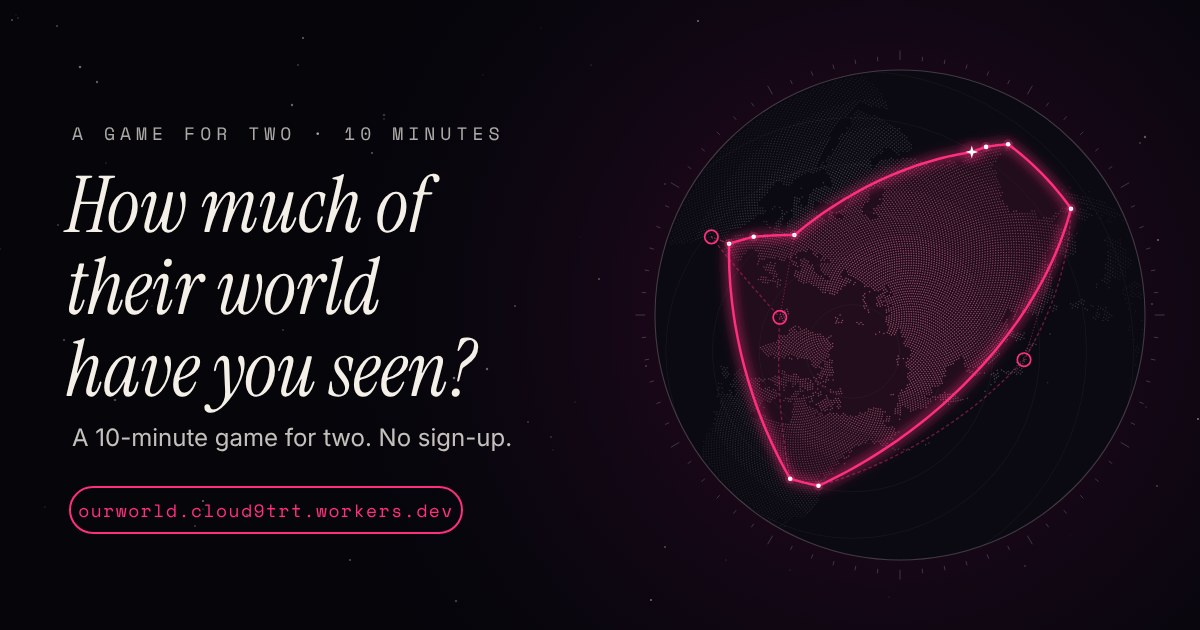
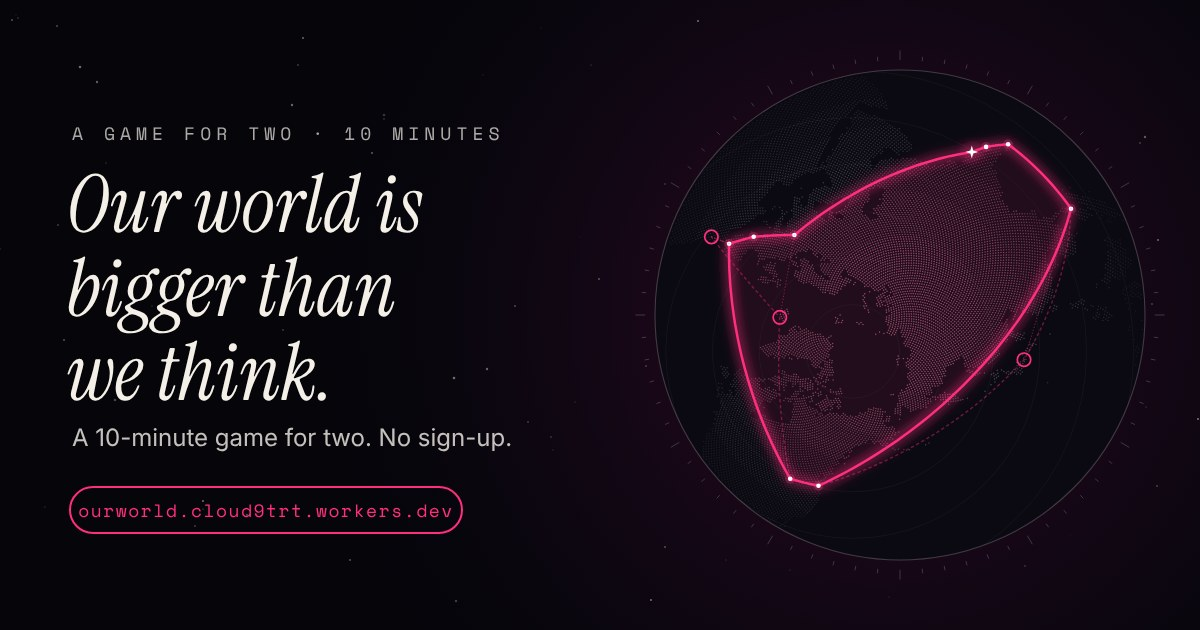
Speclet v5: "Our world is bigger than we think."
- Landing: new headline (sized to wrap to two lines at 390 px), shorter body, the small
  line removed, "Got a code? Scan it.", more room around the globe
- Invite share text: "Our world is bigger than we think. Let's find out." and the link
- Link preview title and description; preview image redrawn
- Share landing headline

Claude-Session: https://claude.ai/code/session_01LMzzb8cEo5p14Pkx3bb9GB

Changed region(s): [[0.0308, 0.2714, 0.4008, 0.6635]]

diff --git a/tests/copy.test.ts b/tests/copy.test.ts
@@ -20,11 +20,12 @@ describe('reveal and poster copy', () => {
 describe('speclet v4 copy', () => {
   it('uses the new lines exactly', () => {
     expect(copy.landingEyebrow).toBe('A game for two · 10 minutes');
-    expect(copy.landingTitle).toBe('How much of their world have you seen?');
-    expect(copy.landingLine).toBe('Twelve questions about the places that made you, and the ones you dream of. Answer in secret on your own phones, then swap and discover what’s waiting in each other’s worlds.');
-    expect(copy.landingSmall).toBe('No sign-up · Nothing leaves your phones');
+    expect(copy.landingTitle).toBe('Our world is bigger than we think.');
+    expect(copy.landingLine).toBe('Twelve questions each, answered in secret. Then swap and see how much is still waiting to be explored.');
+    expect('landingSmall' in copy).toBe(false); // removed in v5
+    expect(copy.inviteShare).toBe('Our world is bigger than we think. Let’s find out.');
     expect(copy.landingStart).toBe('Find out together');
-    expect(copy.haveInvite).toBe('Got a code from your partner? Scan it.');
+    expect(copy.haveInvite).toBe('Got a code? Scan it.');
     expect(copy.joinRule3).toBe('Swap codes and discover what’s waiting in each other’s worlds.');
     expect(copy.shareLine).toBe('A 10-minute game for two. No sign-up.');
     expect(copy.posterCta).toBe('What’s waiting in yours?');
@@ -33,16 +34,16 @@ describe('speclet v4 copy', () => {
   it('carries the link preview title and description in index.html', async () => {
     const { readFileSync } = await import('fs');
     const html = readFileSync('index.html', 'utf8');
-    expect(html).toContain('<title>How much of their world have you seen?</title>');
-    expect(html).toContain('content="How much of their world have you seen?"');
-    expect(html).toContain('content="A 10-minute game for two. Answer on your own phones, swap codes, and discover what’s waiting in each other’s worlds."');
+    expect(html).toContain('<title>Our world is bigger than we think.</title>');
+    expect(html).toContain('content="Our world is bigger than we think."');
+    expect(html).toContain('content="A 10-minute game for two. Answer in secret, swap, and see how much is still waiting to be explored."');
   });
 
-  it('has no "How big is", "Find your shape" or "A date for two phones" anywhere', async () => {
+  it('has no "How big is", "Find your shape", "A date for two phones" or "How much of their world have you seen?" anywhere', async () => {
     const { readFileSync, readdirSync, statSync } = await import('fs');
     const files: string[] = ['index.html', 'scripts/og-image.ts'];
     const walk = (d: string) => readdirSync(d).forEach(f => { const p = `${d}/${f}`; statSync(p).isDirectory() ? walk(p) : files.push(p); });
     walk('src');
-    for (const f of files) expect(readFileSync(f, 'utf8'), f).not.toMatch(/how big|find your shape|a date for two phones/i);
+    for (const f of files) expect(readFileSync(f, 'utf8'), f).not.toMatch(/how big|find your shape|a date for two phones|how much of their world/i);
   });
 });

diff --git a/index.html b/index.html
@@ -5,23 +5,23 @@
     <meta name="viewport" content="width=device-width, initial-scale=1, viewport-fit=cover" />
     <meta name="theme-color" content="#05050A" />
     <meta name="referrer" content="no-referrer" />
-    <title>How much of their world have you seen?</title>
-    <meta name="description" content="A 10-minute game for two. Answer on your own phones, swap codes, and discover what’s waiting in each other’s worlds." />
+    <title>Our world is bigger than we think.</title>
+    <meta name="description" content="A 10-minute game for two. Answer in secret, swap, and see how much is still waiting to be explored." />
     <meta property="og:type" content="website" />
     <meta property="og:site_name" content="Our World" />
-    <meta property="og:title" content="How much of their world have you seen?" />
-    <meta property="og:description" content="A 10-minute game for two. Answer on your own phones, swap codes, and discover what’s waiting in each other’s worlds." />
+    <meta property="og:title" content="Our world is bigger than we think." />
+    <meta property="og:description" content="A 10-minute game for two. Answer in secret, swap, and see how much is still waiting to be explored." />
     <!-- Link previews need an absolute image URL: update it when the site moves to its own domain. Bump ?v= when the image changes. -->
     <meta property="og:url" content="https://ourworld.cloud9trt.workers.dev/" />
-    <meta property="og:image" content="https://ourworld.cloud9trt.workers.dev/og-image.jpg?v=2" />
+    <meta property="og:image" content="https://ourworld.cloud9trt.workers.dev/og-image.jpg?v=3" />
     <meta property="og:image:type" content="image/jpeg" />
     <meta property="og:image:width" content="1200" />
     <meta property="og:image:height" content="630" />
-    <meta property="og:image:alt" content="How much of their world have you seen? A glowing pink shape joining a couple's places on a world map, with places still to explore." />
+    <meta property="og:image:alt" content="Our world is bigger than we think. A glowing pink shape joining a couple's places on a world map, with places still to explore." />
     <meta name="twitter:card" content="summary_large_image" />
-    <meta name="twitter:image" content="https://ourworld.cloud9trt.workers.dev/og-image.jpg?v=2" />
-    <meta name="twitter:title" content="How much of their world have you seen?" />
-    <meta name="twitter:description" content="A 10-minute game for two. Answer on your own phones, swap codes, and discover what’s waiting in each other’s worlds." />
+    <meta name="twitter:image" content="https://ourworld.cloud9trt.workers.dev/og-image.jpg?v=3" />
+    <meta name="twitter:title" content="Our world is bigger than we think." />
+    <meta name="twitter:description" content="A 10-minute game for two. Answer in secret, swap, and see how much is still waiting to be explored." />
   </head>
   <body>
     <div id="root"></div>

diff --git a/src/data/copy.ts b/src/data/copy.ts
@@ -7,17 +7,18 @@ const plural = (n: number, one: string, many = `${one}s`) => `${n} ${n === 1 ? o
 export const copy = {
   brand: 'Our World',
   landingEyebrow: 'A game for two · 10 minutes',
-  landingTitle: 'How much of their world have you seen?',
-  landingLine: 'Twelve questions about the places that made you, and the ones you dream of. Answer in secret on your own phones, then swap and discover what’s waiting in each other’s worlds.',
-  landingSmall: 'No sign-up · Nothing leaves your phones',
+  landingTitle: 'Our world is bigger than we think.',
+  landingLine: 'Twelve questions each, answered in secret. Then swap and see how much is still waiting to be explored.',
   shareLine: 'A 10-minute game for two. No sign-up.',
   joinRule3: 'Swap codes and discover what’s waiting in each other’s worlds.',
   landingStart: 'Find out together',
-  haveInvite: 'Got a code from your partner? Scan it.',
+  haveInvite: 'Got a code? Scan it.',
   /** Link preview title (index.html carries the same text, since link previews don't run scripts). */
-  previewTitle: 'How much of their world have you seen?',
-  previewDescription: 'A 10-minute game for two. Answer on your own phones, swap codes, and discover what’s waiting in each other’s worlds.',
+  previewTitle: 'Our world is bigger than we think.',
+  previewDescription: 'A 10-minute game for two. Answer in secret, swap, and see how much is still waiting to be explored.',
   setupHelper: 'We use this to pick questions that are more likely to surprise you.',
+  /** "Send link instead": the share sheet puts the link after this. */
+  inviteShare: 'Our world is bigger than we think. Let’s find out.',
   inviteLine: (p: string) => `Have ${p} scan this with a phone camera. You’ll both get the same 12 questions.`,
   partnerIn: (p: string) => `${p}’s in. Start`,
   invited: (from: string) => `${from} asked you on a date`,

diff --git a/src/screens/Landing.tsx b/src/screens/Landing.tsx
@@ -15,7 +15,7 @@ export function Landing({ land, status, share, onStart, onScanInvite, onContinue
   return (
     <main className="screen landing">
       <p className="eyebrow center">{copy.landingEyebrow}</p>
-      <h1 className="display center">{copy.landingTitle}</h1>
+      <h1 className="display center landing-title">{copy.landingTitle}</h1>
       <div className="loop" aria-label="Two silver shapes slide together into one pink shape" role="img">
         {land && <>
           <Chart className="loop-a" model={model} land={land} mode="a" dreams={false} label="" />
@@ -23,10 +23,7 @@ export function Landing({ land, status, share, onStart, onScanInvite, onContinue
           <Chart className="loop-ours" model={model} land={land} mode="ours" dreams={false} label="" />
         </>}
       </div>
-      {share ? <p className="lede center">{copy.shareLine}</p> : <>
-        <p className="lede center">{copy.landingLine}</p>
-        <p className="meta center">{copy.landingSmall}</p>
-      </>}
+      <p className="lede center">{share ? copy.shareLine : copy.landingLine}</p>
       {status === 'none' && <button className="primary" onClick={onStart}>{copy.landingStart}</button>}
       {status === 'playing' && <>
         <button className="primary" onClick={onContinue}>Continue our game</button>

diff --git a/src/screens/Invite.tsx b/src/screens/Invite.tsx
@@ -2,15 +2,15 @@ import { useEffect, useState } from 'react';
 import QRCode from 'qrcode';
 import { copy } from '../data/copy';
 
-export function Invite({ from, partner, link, onStart, onBack }: { from: string; partner: string; link: string; onStart: () => void; onBack: () => void }) {
+export function Invite({ partner, link, onStart, onBack }: { partner: string; link: string; onStart: () => void; onBack: () => void }) {
   const [qr, setQr] = useState('');
   useEffect(() => {
     QRCode.toString(link, { type: 'svg', errorCorrectionLevel: 'M', margin: 2, color: { dark: '#05050A', light: '#F4F0E8' } }).then(setQr);
   }, [link]);
   const send = async () => {
     try {
-      if (navigator.share) await navigator.share({ title: copy.brand, text: `${from} invited you to Our World: 12 questions, two phones.`, url: link });
-      else { await navigator.clipboard.writeText(link); alert('Link copied'); }
+      if (navigator.share) await navigator.share({ text: copy.inviteShare, url: link });
+      else { await navigator.clipboard.writeText(`${copy.inviteShare} ${link}`); alert('Link copied'); }
     } catch { /* cancelled */ }
   };
   return (

diff --git a/scripts/og-image.ts b/scripts/og-image.ts
@@ -41,10 +41,10 @@ const mono = (x: number, y: number, t: string, size: number, extra = '') =>
 const serif = (x: number, y: number, t: string, size: number) =>
   `<text x="${x}" y="${y}" font-family="Instrument Serif, serif" font-style="italic" font-size="${size}" fill="${LOOK.cream}">${t}</text>`;
 s += mono(72, 140, copy.landingEyebrow, 18, 'fill-opacity=".7"');
-// the headline, "How much of their world have you seen?", over three lines
-s += serif(66, 232, 'How much of', 78);
-s += serif(66, 314, 'their world', 78);
-s += serif(66, 396, 'have you seen?', 78);
+// the headline, "Our world is bigger than we think.", over three lines
+s += serif(66, 232, 'Our world is', 80);
+s += serif(66, 316, 'bigger than', 80);
+s += serif(66, 400, 'we think.', 80);
 s += `<text x="72" y="446" font-family="Inter, sans-serif" font-size="24" fill="${LOOK.cream}" fill-opacity=".8">${esc(copy.shareLine)}</text>`;
 const pillW = HOST.length * 11.6 + 44;
 s += `<rect x="70" y="487" width="${pillW.toFixed(0)}" height="46" rx="23" fill="none" stroke="${LOOK.pink}" stroke-width="2"/>`;

diff --git a/src/styles.css b/src/styles.css
@@ -86,6 +86,8 @@ form { display: grid; gap: 18px; }
 @keyframes loopB { 0%, 12% { transform: translateX(26%) scale(.62); opacity: 1; } 40% { transform: none; opacity: .9; } 55%, 92% { transform: none; opacity: 0; } 100% { transform: translateX(26%) scale(.62); opacity: 0; } }
 @keyframes loopOurs { 0%, 38% { opacity: 0; } 55%, 88% { opacity: 1; } 100% { opacity: 0; } }
 .landing { justify-content: center; gap: 14px; }
+.landing-title { font-size: clamp(38px, 10.4vw, 58px); line-height: 1.02; text-wrap: balance; }
+.landing .loop { width: min(84vw, 340px); margin: 18px 0; }
 
 .join .rules { list-style: none; padding: 0; margin: 8px 0; display: grid; gap: 16px; }
 .rules li { display: grid; grid-template-columns: 30px 1fr; gap: 12px; }

diff --git a/src/App.tsx b/src/App.tsx
@@ -160,7 +160,7 @@ export function App() {
   let page: JSX.Element | null = null;
   switch (view.kind) {
     case 'invite':
-      page = <Invite from={g.myName} partner={g.partnerName} onBack={() => setView({ kind: 'home' })}
+      page = <Invite partner={g.partnerName} onBack={() => setView({ kind: 'home' })}
         link={inviteLink(location.origin, { gameId: g.gameId, tier: g.tier, round: g.round, from: g.myName, to: g.partnerName, questions: g.questions, indexVersion: index?.version ?? '00000000' })}
         onStart={() => { update({ ...g, started: true }); setView({ kind: 'q', i: 0 }); }} />;
       break;

diff --git a/docs/speclet-landing-copy-v5.md b/docs/speclet-landing-copy-v5.md
@@ -1,0 +1,41 @@
+# Speclet: landing and invite copy (v5)
+
+Replaces the landing, link preview and share landing copy in `Speclet - copy and poster v4`. Everything else in v4 still stands.
+
+## Landing
+
+| Element | Current | New |
+|---|---|---|
+| Eyebrow | A game for two · 10 minutes | *(unchanged)* |
+| Headline | How much of their world have you seen? | Our world is bigger than we think. |
+| Body | Twelve questions about the places that made you, and the ones you dream of. Answer in secret on your own phones, then swap and discover what's waiting in each other's worlds. | Twelve questions each, answered in secret. Then swap and see how much is still waiting to be explored. |
+| Small spaced line under the body | No sign-up · Nothing leaves your phones | *Remove.* The footer already covers privacy. |
+| Button | Find out together | *(unchanged)* |
+| Secondary link | Got a code from your partner? Scan it. | Got a code? Scan it. |
+
+Layout: the headline must fit on two lines on a 390 px-wide phone; reduce its size slightly if needed. Use the space freed by the removed line and shorter text to give the globe more room above and below.
+
+## Invite share text
+
+When the partner link is sent with "Send link instead":
+
+> Our world is bigger than we think. Let's find out. [link]
+
+## Link preview (page title and social card)
+
+- **Title:** Our world is bigger than we think.
+- **Description:** A 10-minute game for two. Answer in secret, swap, and see how much is still waiting to be explored.
+
+## Share landing (where the poster's link leads)
+
+| Element | Current | New |
+|---|---|---|
+| Headline | How much of their world have you seen? | Our world is bigger than we think. |
+| Supporting line | A 10-minute game for two. No sign-up. | *(unchanged)* |
+| Button | Find out together | *(unchanged)* |
+
+## Acceptance
+
+- The landing, invite text, link preview and share landing show the copy above exactly.
+- No screen contains "How much of their world have you seen?".
+- The landing headline wraps to no more than two lines at 390 px width.
